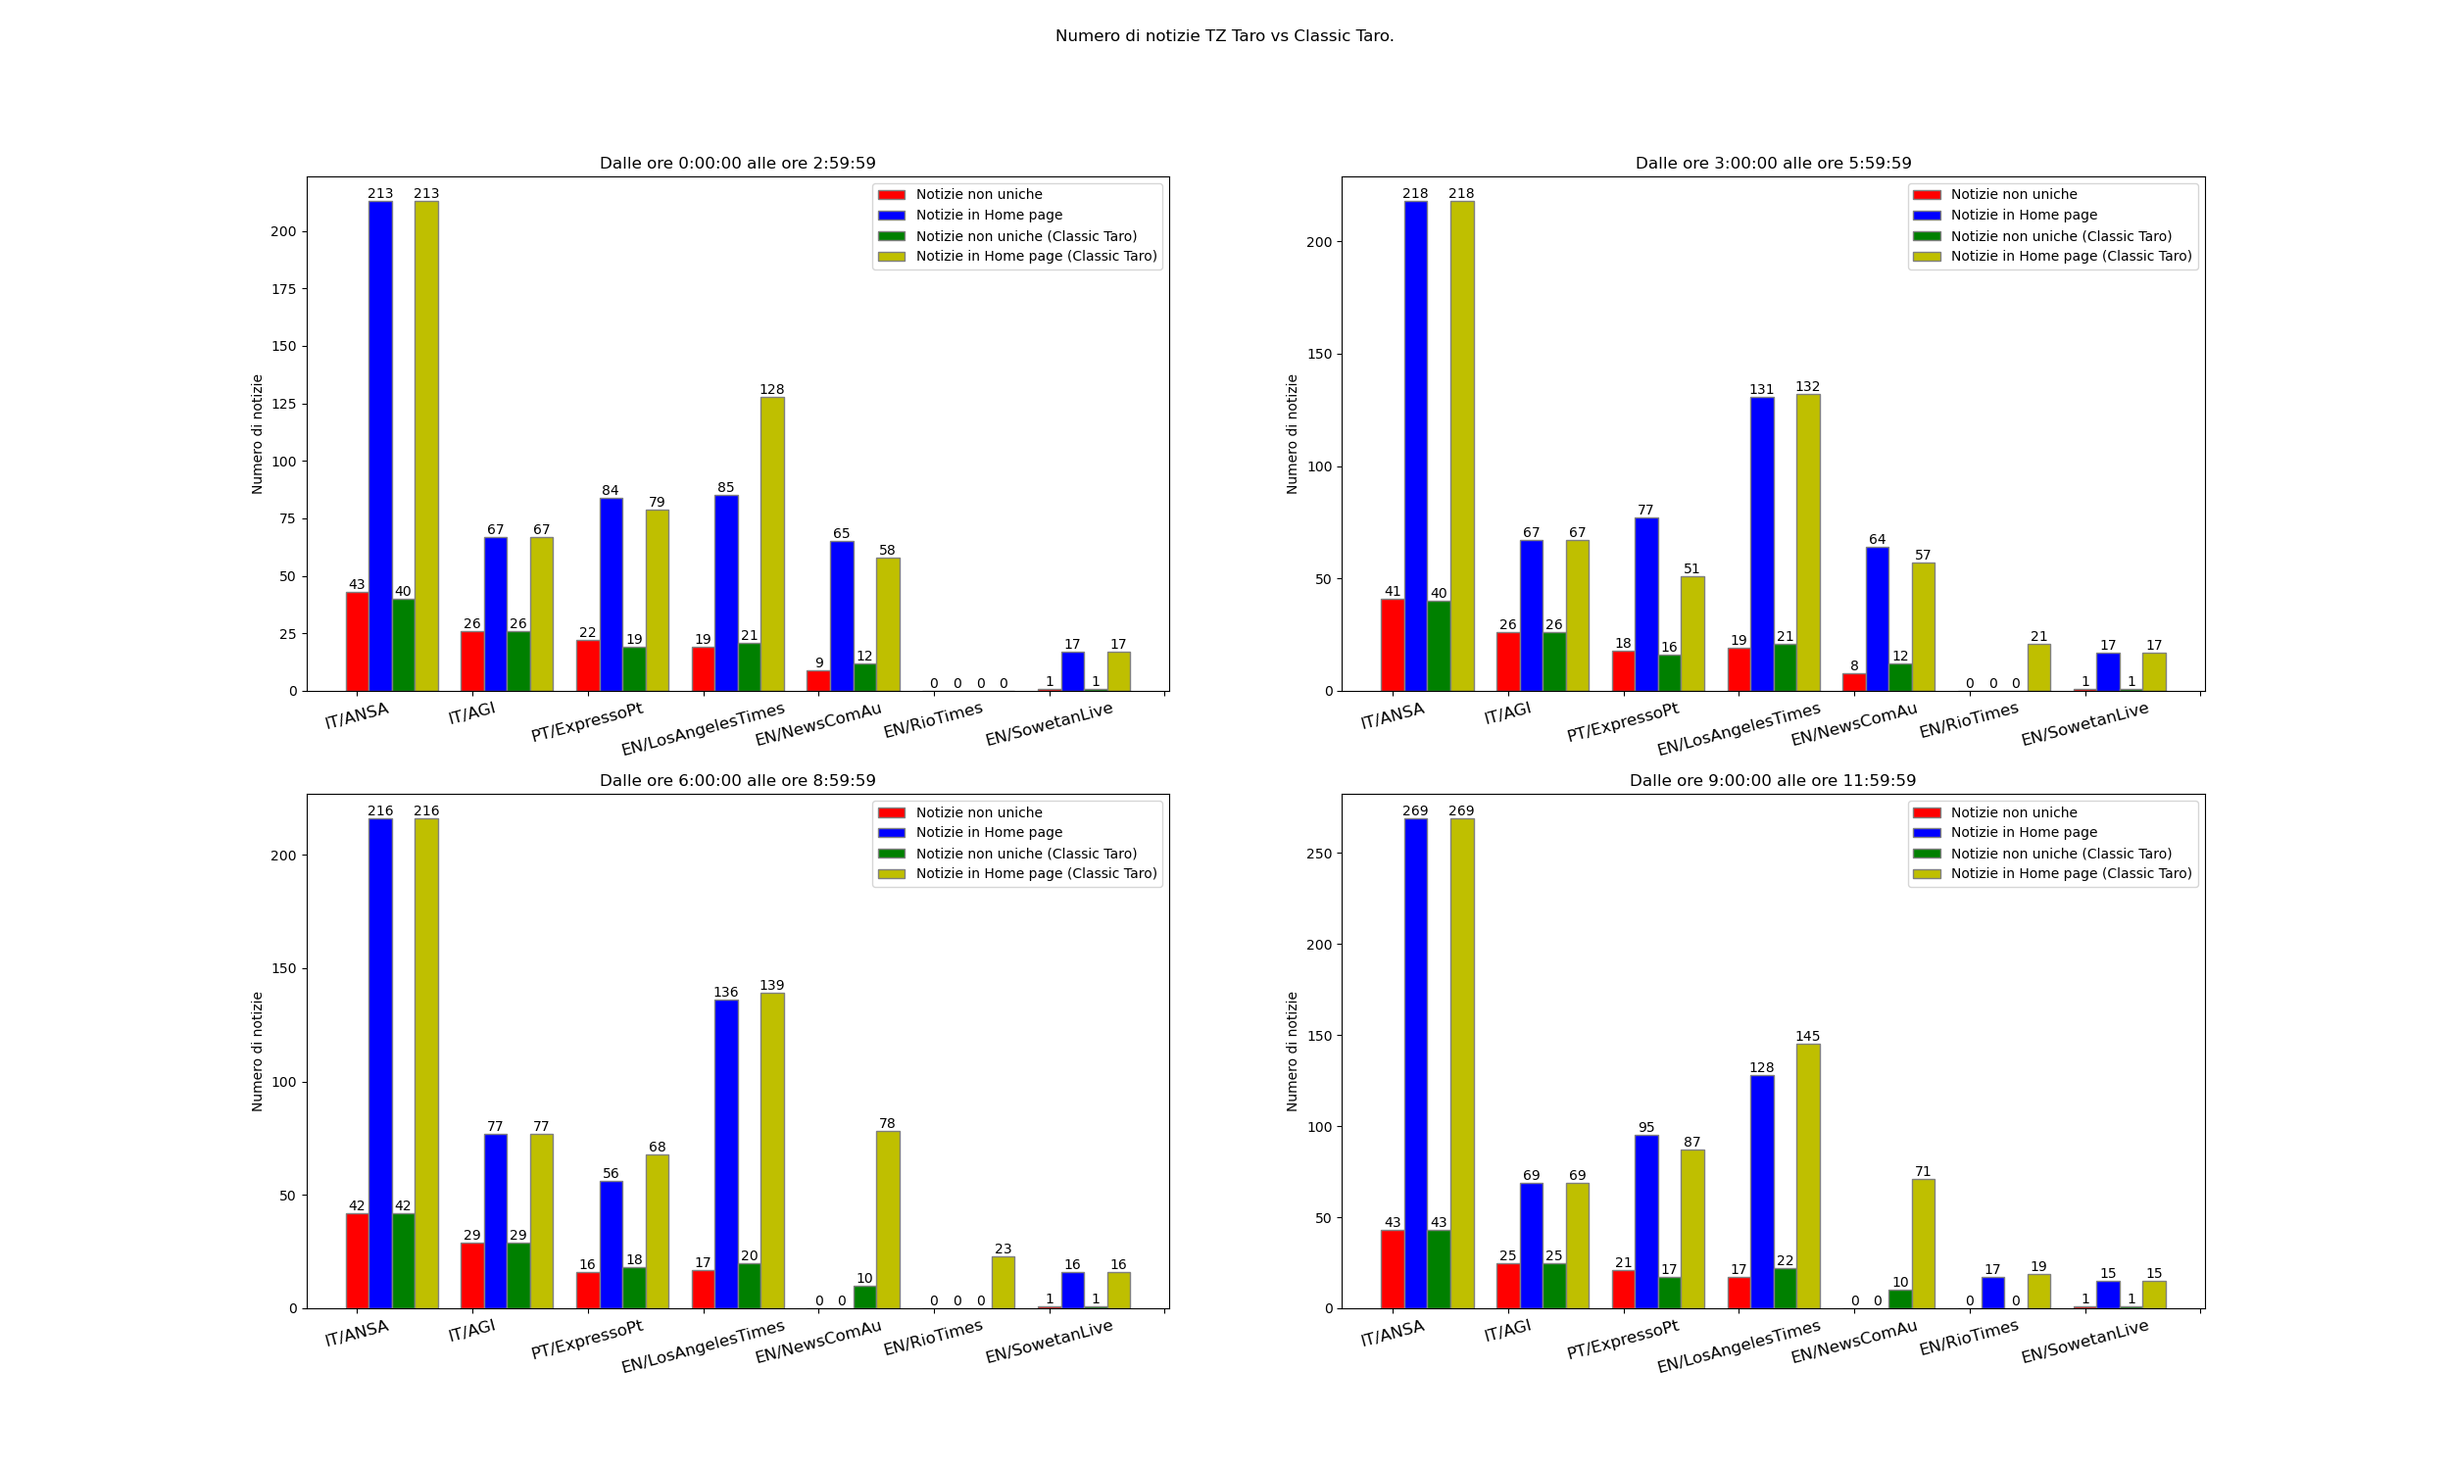
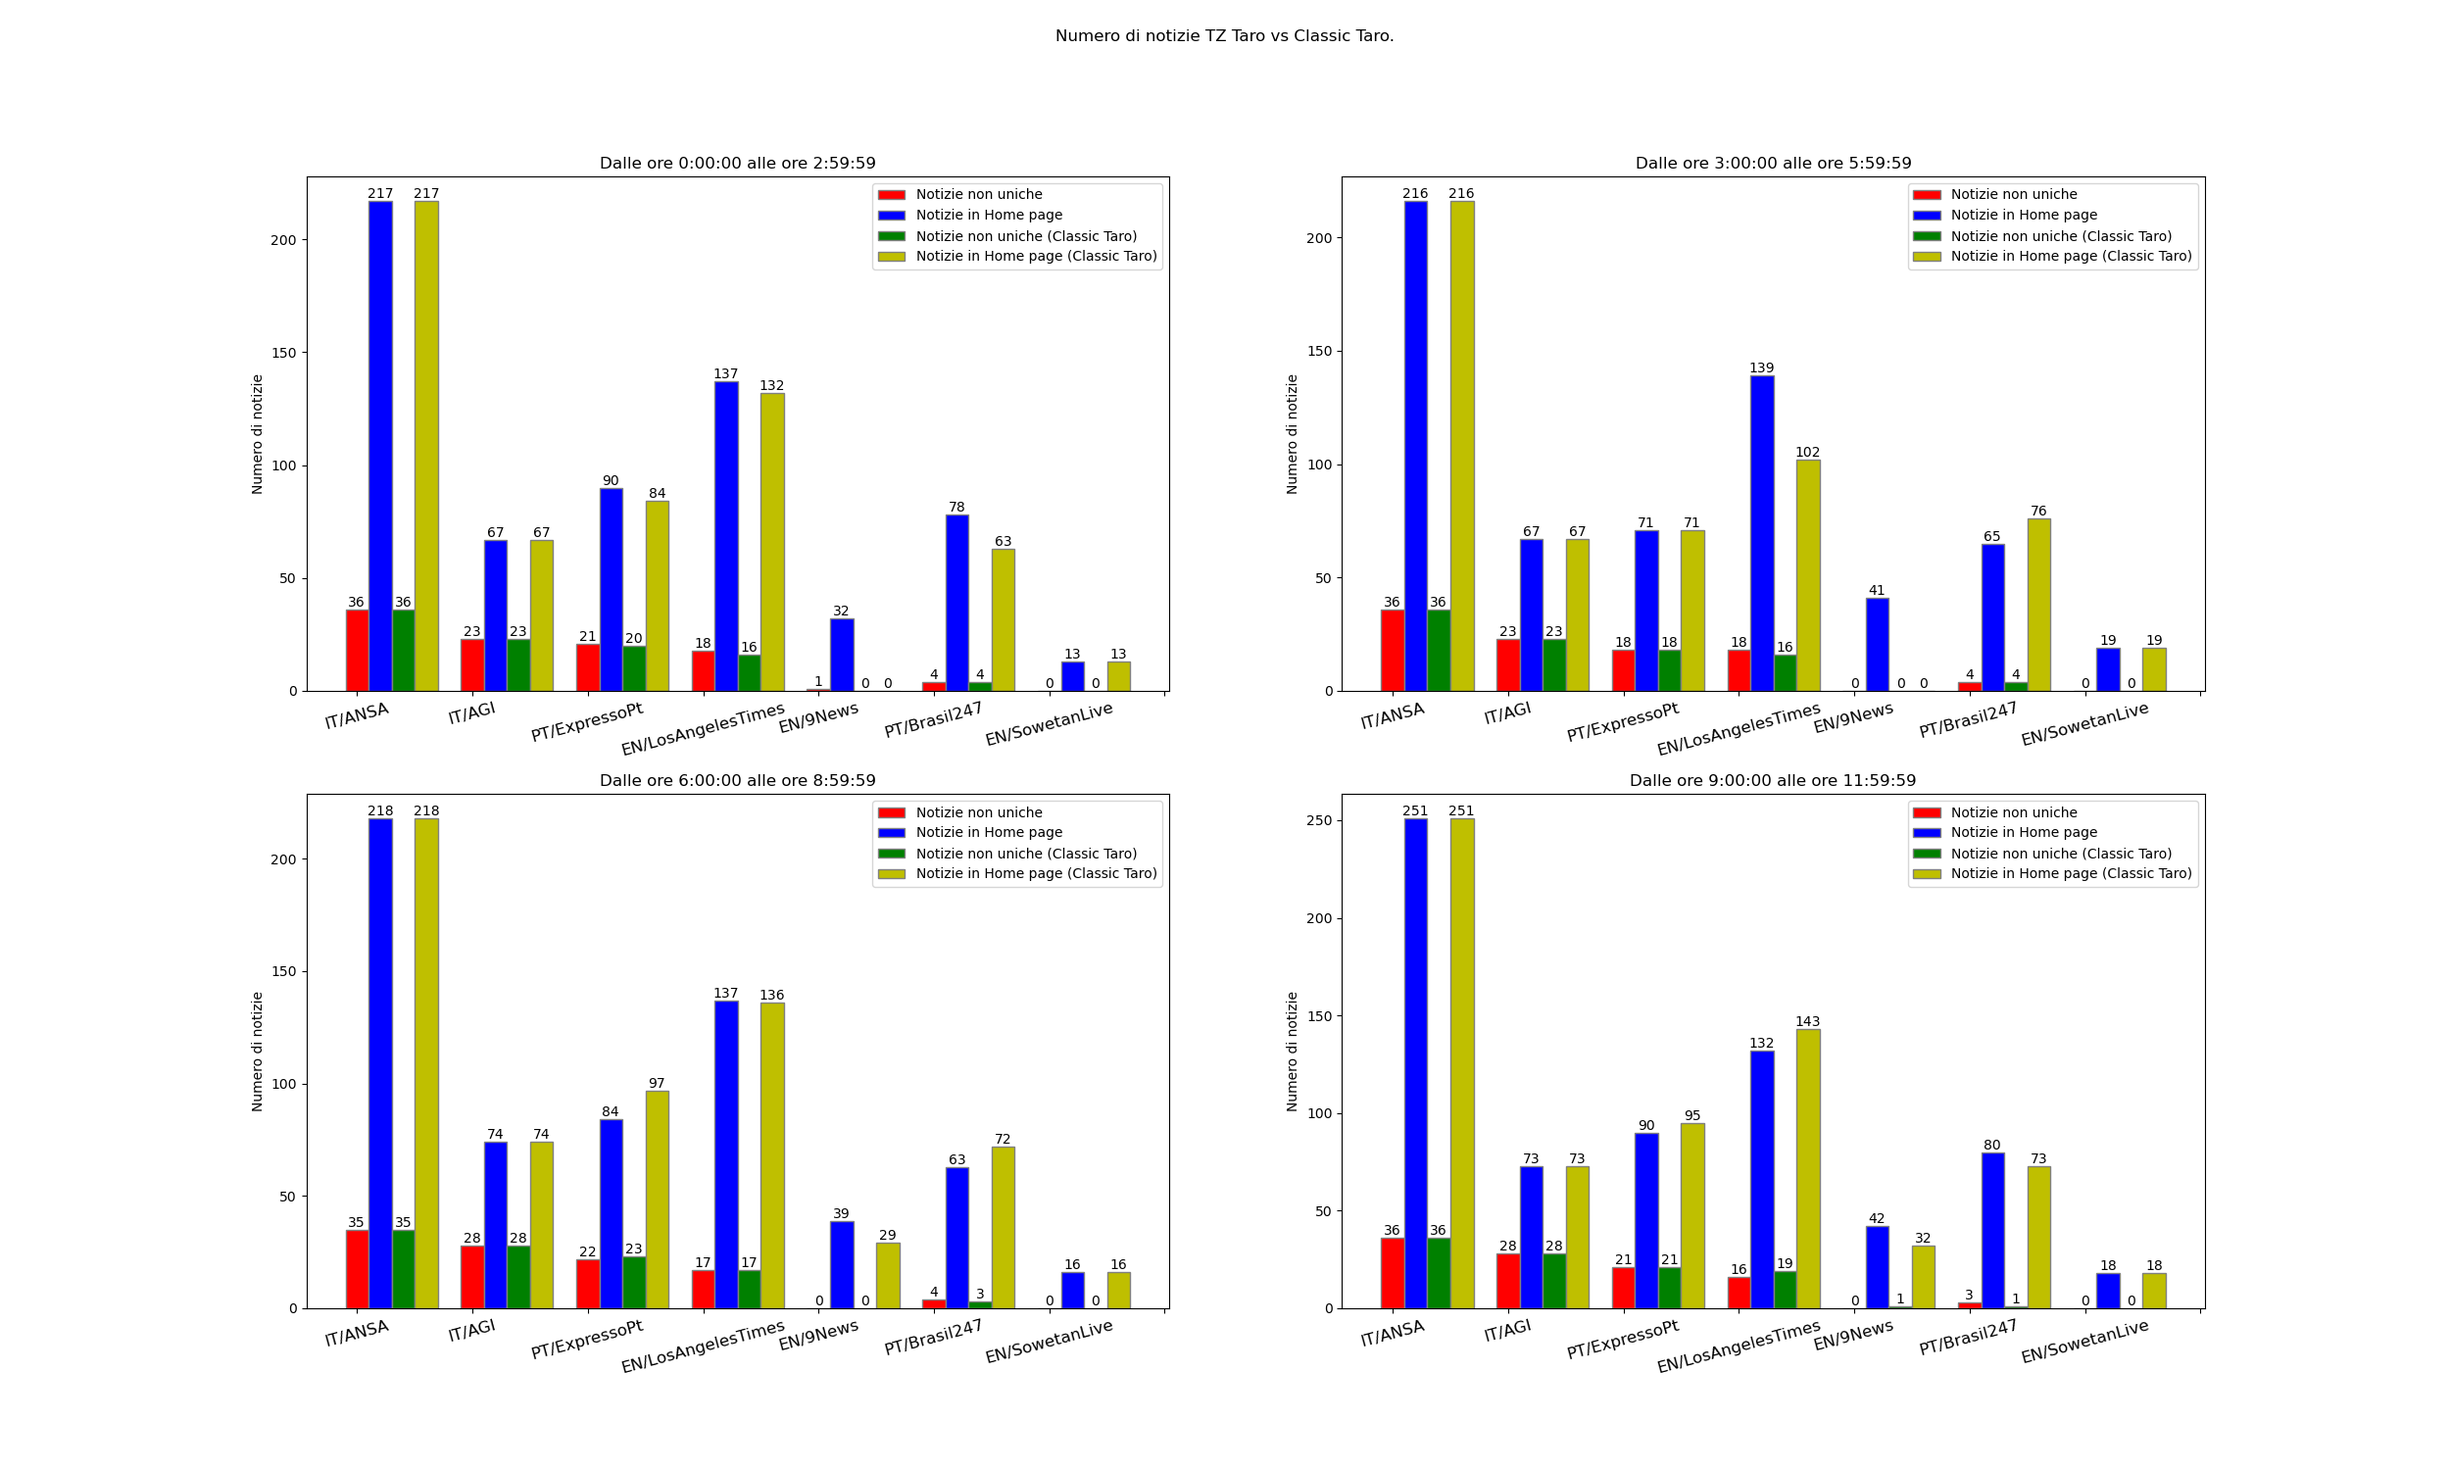
Avanzamento

diff --git a/timezone/ANALISI_ORARIA.py b/timezone/ANALISI_ORARIA.py
@@ -31,7 +31,9 @@ home_pages = [
     "https://www.sowetanlive.co.za",
     "https://www.agi.it",
     "https://www.ansa.it",
-    "https://expresso.pt"
+    "https://expresso.pt",
+    "https://www.9news.com.au",
+    "https://www.brasil247.com"
 ]
 
 
@@ -113,7 +115,7 @@ def draw_graph_2(nome_giornali_data_all: list, min_value: int, max_value: int, j
                 x_labels = [""]
                 for label in giornali[0:len(giornali) // 2]:
                     x_labels.append(label)
-                axs[LINE][COL].set_xticklabels(x_labels, fontsize=10, rotation=90)
+                axs[LINE][COL].set_xticklabels(x_labels, fontsize=12, rotation=15)
 
 
 

diff --git a/timezone/ANALISI_3HR.py b/timezone/ANALISI_3HR.py
@@ -31,7 +31,9 @@ home_pages = [
     "https://www.sowetanlive.co.za",
     "https://www.agi.it",
     "https://www.ansa.it",
-    "https://expresso.pt"
+    "https://expresso.pt",
+    "https://www.9news.com.au",
+    "https://www.brasil247.com"
 ]
 
 

diff --git a/timezone/ANALISI_6HR.py b/timezone/ANALISI_6HR.py
@@ -31,7 +31,9 @@ home_pages = [
     "https://www.sowetanlive.co.za",
     "https://www.agi.it",
     "https://www.ansa.it",
-    "https://expresso.pt"
+    "https://expresso.pt",
+    "https://www.9news.com.au",
+    "https://www.brasil247.com"
 ]
 
 
